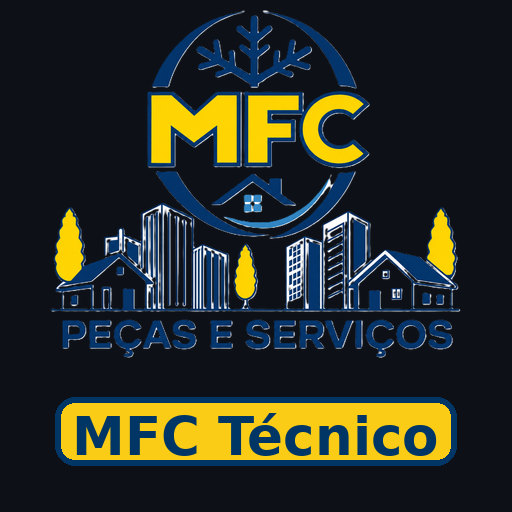
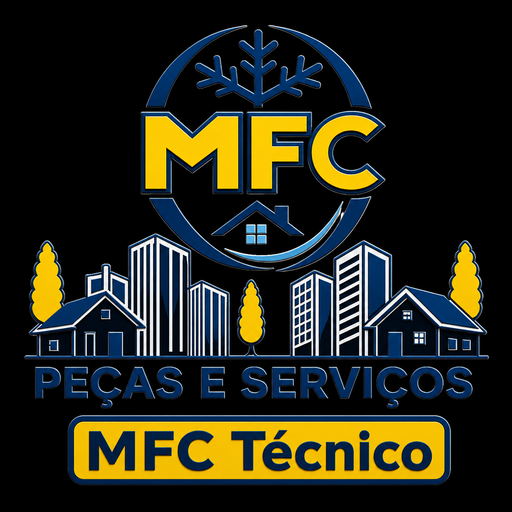
Add files via upload

diff --git a/gestor.html b/gestor.html
@@ -68,10 +68,9 @@ textarea.fi{resize:vertical;min-height:52px}
 .se{background:#14532d33;color:#86efac;border:1px solid #14532d}.de{background:#22c55e}
 .sq{background:#451a0333;color:#fbbf24;border:1px solid #451a03}.dq{background:#f59e0b}
 .sa{background:#1c191733;color:#fb923c;border:1px solid #1c1917}.da{background:#f97316}
-.srd{background:#083344;color:#67e8f9;border:1px solid #155e75}.drd{background:#06b6d4}
 .sab{background:#3b076433;color:#d8b4fe;border:1px solid #3b0764}.dab{background:#a855f7}
 .sr{background:#3b121933;color:#fca5a5;border:1px solid #3b1219}.dr{background:#ef4444}
-.sd{background:#0d1f0d33;color:#4ade80;border:1px solid #0d1f0d}.dd{background:#22c55e}
+.sd{background:#0d1f0d33;color:#4ade80;border:1px solid #0d1f0d}.dd{background:#22c55e}.srd{background:#062b3533;color:#67e8f9;border:1px solid #164e63}.drd{background:#06b6d4}
 .dt-badge{display:inline-block;margin-top:4px;font-size:.73rem;font-weight:600;color:#fff;background:linear-gradient(135deg,#1e3a5f,#0f2744);border:1px solid #2d4f7c;border-radius:6px;padding:2px 8px}
 .dt-badge.svc{background:linear-gradient(135deg,#1a1000,#2d1200);border-color:#7c3d12;color:var(--orange)}
 .paid-badge{font-size:.66rem;font-weight:700;padding:2px 7px;border-radius:10px;background:#0d2e1b;color:#4ade80;border:1px solid #22c55e44}
@@ -93,10 +92,9 @@ textarea.fi{resize:vertical;min-height:52px}
 .vte.active{background:#14532d;border-color:#22c55e}
 .vtq.active{background:#451a03;border-color:#f59e0b}
 .vta.active{background:#1c1917;border-color:#f97316}
-.vtrd.active{background:#164e63;border-color:#06b6d4}
 .vtab2.active{background:#3b0764;border-color:#a855f7}
 .vtr.active{background:#3b1219;border-color:#ef4444}
-.vtd.active{background:#0d1f0d;border-color:#22c55e}
+.vtd.active{background:#0d1f0d;border-color:#22c55e}.vtrd.active{background:#083344;border-color:#06b6d4}
 .vpanel{display:none}.vpanel.active{display:block}
 /* Accordion */
 .acc{border:1px solid var(--border);border-radius:var(--radius-sm);overflow:hidden;margin-bottom:8px}
@@ -160,45 +158,20 @@ textarea.fi{resize:vertical;min-height:52px}
 .csr-item:hover{background:var(--surface2)}
 .csr-item strong{display:block;font-size:.88rem}
 .csr-item span{font-size:.78rem;color:var(--muted)}
-.csr-item.deleted{opacity:.85;border-left:3px solid var(--red);padding-left:9px}
 /* Section label */
 .slabel{font-size:.7rem;font-weight:700;letter-spacing:.08em;text-transform:uppercase;color:var(--muted);margin-bottom:12px}
 /* Recurrent badge */
 .recurrent-badge{background:#451a0355;color:#fbbf24;border:1px solid #f59e0b55;border-radius:6px;padding:4px 10px;font-size:.75rem;font-weight:600;display:inline-flex;align-items:center;gap:4px}
-
-/* Marca MFC */
-.brand-hero{
-  position:relative;overflow:hidden;border:1px solid var(--border);border-radius:22px;
-  background:linear-gradient(135deg,#0f172a,#111827);box-shadow:var(--shadow);margin-bottom:18px;
-}
-.brand-cover{width:100%;height:190px;object-fit:cover;display:block;opacity:.82}
-.brand-content{display:flex;align-items:center;gap:18px;padding:18px 22px;background:linear-gradient(180deg,rgba(17,24,39,.94),rgba(17,24,39,1))}
-.brand-logo{width:86px;height:86px;object-fit:contain;background:#fff;border-radius:20px;padding:8px;box-shadow:0 12px 30px rgba(0,0,0,.35);flex-shrink:0}
-.brand-content h2{font-size:1.25rem;margin-bottom:4px;color:var(--text)}
-.brand-content p{color:var(--muted);font-size:.9rem;line-height:1.4}
-@media(max-width:700px){.brand-cover{height:130px}.brand-content{padding:14px;gap:12px}.brand-logo{width:68px;height:68px}.brand-content h2{font-size:1rem}.brand-content p{font-size:.78rem}}
-.phone-copy{display:inline-flex;margin-top:6px;padding:7px 10px;border-radius:8px;background:var(--surface2);border:1px solid var(--border);color:var(--accent2);font-size:.78rem;font-weight:700;cursor:pointer}
 </style>
 </head>
 <body>
 <header>
   <span style="font-size:1.3rem">❄️</span>
   <h1>Painel Gestor — Refrigeração</h1>
-  <button class="btn btn-muted btn-sm" onclick="enableGestorNotifications()">🔔 Alertas</button>
   <span id="conn">🔴 Conectando...</span>
 </header>
 
 <div class="main">
-  <div class="brand-hero">
-    <img class="brand-cover" src="mfc-capa.png" alt="MFC Peças e Serviços">
-    <div class="brand-content">
-      <img class="brand-logo" src="mfc-logo.png" alt="Logo MFC">
-      <div>
-        <h2>Painel Gestor MFC</h2>
-        <p>Controle de clientes, visitas, orçamentos e serviços de refrigeração.</p>
-      </div>
-    </div>
-  </div>
   <!-- Tabs principais -->
   <div class="tabs" id="main-tabs">
     <button class="tab active" onclick="mainTab('clientes',this)">Clientes</button>
@@ -218,6 +191,16 @@ textarea.fi{resize:vertical;min-height:52px}
       <div style="margin-bottom:10px"><span class="fl">Observação</span><textarea class="fi" id="emp-notes" placeholder="Observação rápida da visita" style="min-height:44px"></textarea></div>
       <button class="btn btn-cyan btn-sm" onclick="addCompanyVisit()">⚡ Enviar visita empresa</button>
     </div>
+    <!-- Paste -->
+    <div class="paste-card">
+      <h2>📋 Cole as informações do cliente</h2>
+      <textarea id="paste-area" placeholder="Cole aqui o texto com os dados. Funciona com rótulo: valor ou formato de tabela (duas linhas com tabulação)."></textarea>
+      <div style="display:flex;gap:8px;margin-top:8px;align-items:center">
+        <button class="btn btn-blue btn-sm" onclick="parseAndFill()">⚡ Preencher automaticamente</button>
+        <span style="font-size:.75rem;color:var(--muted)">Reconhece Nome, Contato, Endereço, Número, Bairro, Ref, Equipamento</span>
+      </div>
+    </div>
+
     <!-- Formulário -->
     <div class="card">
       <div class="slabel" style="margin-bottom:14px">➕ Novo Cliente</div>
@@ -240,7 +223,6 @@ textarea.fi{resize:vertical;min-height:52px}
             <option value="evaluated">✅ Avaliação concluída</option>
             <option value="quoted">💰 Aguardando aprovação</option>
             <option value="approved">🟠 Aprovado</option>
-            <option value="ready_delivery">📦 Pronto para entrega</option>
             <option value="absent">🚫 Cliente ausente</option>
             <option value="rejected">❌ Orçamento rejeitado</option>
           </select>
@@ -331,50 +313,10 @@ const col = collection(db,'clients');
 const leadsCol = collection(db,'leads');
 
 let all=[], leads=[], filter='all', editId=null, trashOpen=false, currentMainTab='clientes';
-let firstClientsLoad = true;
-let clientUpdateState = new Map();
-
-window.enableGestorNotifications=async()=>{
-  if(!('Notification' in window)){ toast('Seu navegador não suporta notificações.','var(--red)'); return; }
-  try{
-    const perm = await Notification.requestPermission();
-    if(perm === 'granted') toast('🔔 Alertas ativados!');
-    else toast('Permissão de alerta não liberada.','var(--yellow)');
-  }catch(e){ toast('Não foi possível ativar alertas.','var(--red)'); }
-};
-
-function layerSignature(ly){
-  return JSON.stringify({
-    techReport:ly.techReport||null,
-    absentAt:ly.absentAt||'',
-    concludedAt:ly.concludedAt||''
-  });
-}
-function clientSignature(c){ return getLayers(c).map(layerSignature).join('|'); }
-function showUpdateNotification(c){
-  const title='Atualização do técnico';
-  const body=`${c.name || 'Cliente'} recebeu uma atualização.`;
-  if('Notification' in window && Notification.permission==='granted') new Notification(title,{body,icon:'mfc-logo.png'});
-  toast(`🔔 ${body}`,'var(--accent)');
-}
 
 // ── Listeners ─────────────────────────────────
 onSnapshot(query(col, orderBy('createdAt','asc')), snap => {
-  const nc = snap.docs.map(d=>({id:d.id,...d.data()}));
-
-  if(firstClientsLoad){
-    nc.forEach(c=>clientUpdateState.set(c.id, clientSignature(c)));
-    firstClientsLoad = false;
-  } else {
-    nc.forEach(c=>{
-      const sig=clientSignature(c);
-      const prev=clientUpdateState.get(c.id);
-      if(prev && prev!==sig) showUpdateNotification(c);
-      clientUpdateState.set(c.id,sig);
-    });
-  }
-
-  all = nc;
+  all = snap.docs.map(d=>({id:d.id,...d.data()}));
   document.getElementById('conn').textContent='🟢 Conectado';
   render(); renderTrash();
 }, err=>{ document.getElementById('conn').textContent='🔴 Erro'; console.error(err); });
@@ -389,32 +331,32 @@ onSnapshot(query(leadsCol, orderBy('createdAt','desc')), snap => {
 });
 
 // ── Helpers ───────────────────────────────────
-const lbl = s=>({waiting:'Aguardando visita',evaluated:'Avaliação concluída',quoted:'Aguardando aprovação',approved:'Aprovado',ready_delivery:'Pronto para entrega',absent:'Cliente ausente',rejected:'Orçamento rejeitado',done:'Serviço Concluído'}[s]||s||'Aguardando visita');
+function normStatus(s){
+  s=String(s||'waiting').trim().toLowerCase().replace(/-/g,'_');
+  if(['ready_delivery','ready_for_delivery','pronto_entrega','pronto_para_entrega'].includes(s))return 'ready_delivery';
+  return s;
+}
+const lbl = s=>({waiting:'Aguardando visita',evaluated:'Avaliação concluída',quoted:'Aguardando aprovação',approved:'Aprovado',ready_delivery:'Pronto para entrega',absent:'Cliente ausente',rejected:'Orçamento rejeitado',done:'Serviço Concluído'}[normStatus(s)]||s||'Aguardando visita');
 const fdt = dt=>{ if(!dt)return'—'; try{return new Date(dt).toLocaleString('pt-BR',{weekday:'long',day:'2-digit',month:'long',year:'numeric',hour:'2-digit',minute:'2-digit'});}catch{return dt;}};
 const fdtShort = dt=>{ if(!dt)return'—'; try{return new Date(dt).toLocaleString('pt-BR',{day:'2-digit',month:'2-digit',year:'2-digit',hour:'2-digit',minute:'2-digit'});}catch{return dt;}};
 const maps = a=>'https://www.google.com/maps/search/?api=1&query='+encodeURIComponent(a);
-window.copyPhone = async phone => {
-  const txt = phone || '';
-  try{ await navigator.clipboard.writeText(txt); toast('📋 Número copiado!'); }
-  catch(e){ prompt('Copie o número:', txt); }
-};
 
 function toast(m, c='var(--green)'){
   const t=document.getElementById('toast');
   t.textContent=m; t.style.background=c;
   t.style.display='block';
-  setTimeout(()=>t.style.display='none', 3500);
+  setTimeout(()=>t.style.display='none', 2500);
 }
 
 function getLayers(c){
   if(c.layers&&c.layers.length)return c.layers;
   return[{status:c.status||'waiting',quote:c.quote||'',quoteObs:c.quoteObs||'',techReport:c.techReport||null,absentAt:c.absentAt||null,approval:c.approval||null,done:false,createdAt:c.createdAt||''}];
 }
-function getStatus(c){ return c.status||'waiting'; }
+function getStatus(c){ return normStatus(c.status||'waiting'); }
 function getMainDt(c){
   const layers=getLayers(c);
   const active=layers.find(l=>!l.done);
-  if(active?.deliveryDate) return{dt:active.deliveryDate,type:'delivery'};
+  if(normStatus(active?.status)==='ready_delivery') return{dt:active.deliveryDate||active.deliveryAt||active.approval?.deliveryDate||active.approval?.deliveryAt||active.approval?.serviceDate,type:'delivery'};
   if(active?.approval?.serviceDate) return{dt:active.approval.serviceDate,type:'service'};
   return{dt:c.datetime,type:'visit'};
 }
@@ -450,17 +392,11 @@ window.searchClients=val=>{
   const csr=document.getElementById('csr');
   if(!val||val.length<2){csr.style.display='none';return;}
   const q=val.toLowerCase();
-  const qDigits=val.replace(/\D/g,'');
-  const results=all.filter(c=>{
-    const name=(c.name||'').toLowerCase();
-    const phone=(c.phone||'');
-    const phoneDigits=phone.replace(/\D/g,'');
-    return name.includes(q) || phone.includes(val) || (qDigits && phoneDigits.includes(qDigits));
-  }).slice(0,10);
+  const results=all.filter(c=>!c.deleted&&((c.name||'').toLowerCase().includes(q)||(c.phone||'').includes(q))).slice(0,6);
   if(!results.length){csr.style.display='none';return;}
   csr.style.display='block';
-  csr.innerHTML=results.map(c=>`<div class="csr-item ${c.deleted?'deleted':''}" onclick="fillFromClient('${c.id}')">
-    <strong>${c.name||'—'} ${c.deleted?' <span style="color:var(--red);font-size:.72rem">🗑 Lixeira</span>':''}</strong>
+  csr.innerHTML=results.map(c=>`<div class="csr-item" onclick="fillFromClient('${c.id}')">
+    <strong>${c.name||'—'}</strong>
     <span>${c.phone||''} ${c.address?'· '+c.address:''}</span>
   </div>`).join('');
 };
@@ -623,8 +559,6 @@ window.saveLayer=async(id,li)=>{
   const val=document.getElementById('ly-val-'+id+'-'+li)?.value?.trim();
   const maq=document.getElementById('ly-maq-'+id+'-'+li)?.checked||false;
   const paid=document.getElementById('ly-paid-'+id+'-'+li)?.checked||false;
-  const deliveryDate=document.getElementById('ly-delivery-'+id+'-'+li)?.value||'';
-  const deliveryObs=document.getElementById('ly-delivery-obs-'+id+'-'+li)?.value?.trim()||'';
   // Entrada
   const entryChecked=document.getElementById('ly-entry-'+id+'-'+li)?.checked||false;
   const entryPct=parseFloat(document.getElementById('ly-epct-'+id+'-'+li)?.value)||40;
@@ -633,8 +567,6 @@ window.saveLayer=async(id,li)=>{
   if(qt!==undefined)layers[li].quote=qt;
   if(obs!==undefined)layers[li].quoteObs=obs;
   if(st)layers[li].status=st;
-  layers[li].deliveryDate=deliveryDate;
-  layers[li].deliveryObs=deliveryObs;
   if(pay||svc||val)layers[li].approval={payment:pay||'',serviceDate:svc||'',value:val||'',needsMachine:maq,paid};
   else if(layers[li].approval){layers[li].approval.needsMachine=maq;layers[li].approval.paid=paid;}
   layers[li].entry={enabled:entryChecked,percent:entryPct,payment:entryPay,received:entryReceived};
@@ -761,6 +693,7 @@ window.calcEntry=(id,li)=>{
 };
 
 function statusOpts(sel){
+  sel=normStatus(sel);
   return['waiting','evaluated','quoted','approved','ready_delivery','absent','rejected','done'].map(s=>{
     const labels={waiting:'🕐 Aguardando visita',evaluated:'✅ Avaliação concluída',quoted:'💰 Aguardando aprovação',approved:'🟠 Aprovado',ready_delivery:'📦 Pronto para entrega',absent:'🚫 Cliente ausente',rejected:'❌ Orçamento rejeitado',done:'✅ Serviço Concluído'};
     return`<option value="${s}"${sel===s?' selected':''}>${labels[s]}</option>`;
@@ -803,7 +736,7 @@ function render(){
     const done=layers.filter(l=>l.done);
 
     let aN=0;
-    const tabsHtml=layers.map((ly,li)=>{if(ly.done)return'';aN++;const isPri=c.priorityIndex===li;const cls={waiting:'vtw',evaluated:'vte',quoted:'vtq',approved:'vta',ready_delivery:'vtrd',absent:'vtab2',rejected:'vtr',done:'vtd'}[ly.status]||'vtw';return`<button id="vt-${c.id}-${li}" data-vt="${c.id}" class="vtab ${cls}${isPri?' pri':''}" onclick="showVTab('${c.id}',${li})">${isPri?'⭐ ':''}Visita ${aN}${isPri?' ★':''}</button>`;}).join('');
+    const tabsHtml=layers.map((ly,li)=>{if(ly.done)return'';aN++;const isPri=c.priorityIndex===li;const cls={waiting:'vtw',evaluated:'vte',quoted:'vtq',approved:'vta',ready_delivery:'vtrd',absent:'vtab2',rejected:'vtr',done:'vtd'}[normStatus(ly.status)]||'vtw';return`<button id="vt-${c.id}-${li}" data-vt="${c.id}" class="vtab ${cls}${isPri?' pri':''}" onclick="showVTab('${c.id}',${li})">${isPri?'⭐ ':''}Visita ${aN}${isPri?' ★':''}</button>`;}).join('');
     const doneTab=done.length?`<button id="vt-${c.id}-done" data-vt="${c.id}" class="vtab vtd" onclick="showDoneTab('${c.id}')">✅ Concluídos (${done.length})</button>`:'';
 
     aN=0;
@@ -814,7 +747,6 @@ function render(){
       const techAcc=ly.techReport?`<div class="acc"><div class="acc-hdr" id="ath${c.id}${li}" onclick="toggleAcc('ath${c.id}${li}','atb${c.id}${li}')"><span style="font-size:.8rem;font-weight:700;color:var(--accent2)">🔧 Relatório do Técnico</span><span class="acc-arr">▼</span></div><div class="acc-body" id="atb${c.id}${li}"><p style="font-size:.85rem;margin-bottom:4px"><strong>Equipamento:</strong> ${ly.techReport.model||'—'}</p><p style="font-size:.85rem;margin-bottom:8px"><strong>Serviços:</strong> ${ly.techReport.problem||'—'}</p>${ly.techReport.photos?.length?`<div style="display:flex;gap:8px;flex-wrap:wrap">${ly.techReport.photos.map(p=>`<img src="${p}" onclick="openLb('${p}')" style="width:68px;height:68px;object-fit:cover;border-radius:6px;cursor:pointer">`).join('')}</div>`:''}</div></div>`:'';
       const absentAcc=ly.absentAt?`<div class="acc"><div class="acc-hdr" id="aah${c.id}${li}" onclick="toggleAcc('aah${c.id}${li}','aab${c.id}${li}')"><span style="font-size:.8rem;font-weight:700;color:var(--purple)">🚫 Cliente Ausente</span><span class="acc-arr">▼</span></div><div class="acc-body" id="aab${c.id}${li}"><p style="font-size:.85rem">Em: <strong>${fdt(ly.absentAt)}</strong></p></div></div>`:'';
       const apprInfo=ly.approval?.payment?`<div style="font-size:.82rem;color:var(--orange);margin-bottom:8px;padding:6px 10px;background:#1a100055;border:1px solid #f9731622;border-radius:6px">✔ ${ly.approval.payment}${ly.approval.value?' — <strong>'+ly.approval.value+'</strong>':''}${ly.approval.needsMachine?' 💳':''}${ly.approval.paid?' <span class="paid-badge">💰 Pago</span>':''} — ${fdt(ly.approval.serviceDate)}</div>`:'';
-      const deliveryInfo=ly.status==='ready_delivery'?`<div style="font-size:.82rem;color:#67e8f9;margin-bottom:8px;padding:6px 10px;background:#08334455;border:1px solid #06b6d422;border-radius:6px">📦 Pronto para entrega: <strong>${fdt(ly.deliveryDate)}</strong>${ly.deliveryObs?' — '+ly.deliveryObs:''}</div>`:'';
       const entryBox=entry.enabled?`<div class="entry-box"><h5>💵 Entrada / Sinal</h5><div class="entry-vals"><div class="ev"><label>Total</label><span id="ev-total-${c.id}-${li}">${ly.approval?.value||'R$ 0,00'}</span></div><div class="ev"><label>Entrada (${entry.percent||40}%)</label><span id="ev-entry-${c.id}-${li}">R$ 0,00</span></div><div class="ev"><label>Restante</label><span id="ev-remain-${c.id}-${li}">R$ 0,00</span></div></div><div style="margin-top:8px;font-size:.82rem;color:${entry.received?'var(--green)':'var(--muted)'}">Pagamento: ${entry.payment||'—'} ${entry.received?'✅ Entrada recebida':'⏳ Aguardando'}</div></div>`:'';
       const budgetImg=ly.budgetImage?.data||'';
       const docInfo=budgetImg?`<div class="doc-box"><p style="font-size:.78rem;color:var(--accent2);text-transform:uppercase;margin-bottom:4px">🖼️ Imagem do orçamento</p><img class="budget-preview" src="${budgetImg}" onclick="openLb('${budgetImg}')"><div class="acts"><button class="btn btn-muted btn-sm" onclick="openLb('${budgetImg}')">🔍 Ver / Zoom</button><button class="btn btn-muted btn-sm" onclick="removeBudgetImage('${c.id}',${li})">Remover</button></div></div>`:'';
@@ -835,16 +767,12 @@ function render(){
           <!-- Aprovação -->
           <div class="acc" style="margin-bottom:8px"><div class="acc-hdr" id="aph${c.id}${li}" onclick="toggleAcc('aph${c.id}${li}','apb${c.id}${li}')"><span style="font-size:.8rem;font-weight:700;color:var(--orange)">✅ Aprovação e Pagamento</span><span class="acc-arr">▼</span></div>
             <div class="acc-body" id="apb${c.id}${li}">
-              ${deliveryInfo}${apprInfo}
+              ${apprInfo}
               <div class="fgrid" style="margin-bottom:8px">
                 <div><span class="fl">Forma de pagamento</span><input type="text" class="fi" id="ly-pay-${c.id}-${li}" placeholder="Pix, Cartão..." value="${ly.approval?.payment||''}"></div>
                 <div><span class="fl">Valor do orçamento</span><input type="text" class="fi" id="ly-val-${c.id}-${li}" placeholder="R$ 0,00" value="${ly.approval?.value||''}" oninput="calcEntry('${c.id}',${li})"></div>
               </div>
               <div style="margin-bottom:10px"><span class="fl">Data e hora do serviço</span><input type="datetime-local" class="fi" id="ly-svc-${c.id}-${li}" value="${ly.approval?.serviceDate||''}"></div>
-              <div class="fgrid" style="margin-bottom:8px">
-                <div><span class="fl">📦 Data da entrega</span><input type="datetime-local" class="fi" id="ly-delivery-${c.id}-${li}" value="${ly.deliveryDate||''}"></div>
-                <div><span class="fl">Obs. da entrega</span><input type="text" class="fi" id="ly-delivery-obs-${c.id}-${li}" placeholder="Ex: entregar pela manhã" value="${ly.deliveryObs||''}"></div>
-              </div>
               <label style="display:flex;align-items:center;gap:10px;cursor:pointer;background:var(--surface2);border:1px solid var(--border);border-radius:var(--radius-sm);padding:9px 12px;margin-bottom:8px">
                 <input type="checkbox" id="ly-maq-${c.id}-${li}" ${ly.approval?.needsMachine?'checked':''} style="width:17px;height:17px;accent-color:var(--orange);cursor:pointer">
                 <span style="font-size:.87rem">💳 Precisa de maquininha</span>
@@ -892,7 +820,7 @@ function render(){
         <div class="cmeta">
           <strong>${c.name||'—'} ${c.phone?`<span style="font-size:.78rem;color:var(--muted);font-weight:400">· ${c.phone}</span>`:''} ${machine?'<span title="Precisa de maquininha">💳</span>':''}</strong>
           <div class="csub">${c.address||''}</div>
-          <span class="dt-badge${mainDt.type==='service'?' svc':''}">${mainDt.type==='delivery'?'📦':(mainDt.type==='service'?'🔧':'📅')} ${fdt(mainDt.dt)}</span>
+          <span class="dt-badge${mainDt.type==='service'||mainDt.type==='delivery'?' svc':''}">${mainDt.type==='delivery'?'📦':mainDt.type==='service'?'🔧':'📅'} ${fdt(mainDt.dt)}</span>
         </div>
         <div style="display:flex;flex-direction:column;align-items:flex-end;gap:4px">
           <span class="sbadge ${badgeCls[status]||'sw'}">${lbl(status)}</span>
@@ -901,7 +829,7 @@ function render(){
       </div>
       <div class="cc-body" id="body-${c.id}">
         <div class="igrid">
-          <div class="iblk"><label>Telefone</label><p style="user-select:text">${c.phone||'—'}</p>${c.phone?`<button class="phone-copy" onclick="event.stopPropagation();copyPhone('${c.phone}')">📋 Copiar número</button>`:''}</div>
+          <div class="iblk"><label>Telefone</label><p>${c.phone||'—'}</p></div>
           <div class="iblk"><label>Equipamento</label><p>${c.equip||'—'}</p></div>
           ${c.notes?`<div class="iblk"><label>Obs</label><p>${c.notes}</p></div>`:''}
           ${c.address?`<div class="iblk"><label>Endereço</label><p>${c.address}${c.ref?' — '+c.ref:''} <a href="${maps(c.address+(c.ref?' '+c.ref:''))}" target="_blank" style="color:var(--accent2);font-size:.75rem">📍</a></p></div>`:''}

diff --git a/index.html b/index.html
@@ -32,7 +32,7 @@ header h1{font-size:1rem;font-weight:700;flex:1}
 .card.s-waiting{border-left-color:#3b82f6}.card.s-evaluated{border-left-color:#22c55e}
 .card.s-quoted{border-left-color:#eab308}.card.s-approved{border-left-color:#f97316}
 .card.s-absent{border-left-color:#a855f7}.card.s-rejected{border-left-color:#ef4444}
-.card.s-done{border-left-color:#22c55e;opacity:.6}
+.card.s-done{border-left-color:#22c55e;opacity:.6}.card.s-ready_delivery{border-left-color:#06b6d4}
 .card-inner{padding:14px 16px;display:flex;align-items:center;gap:12px}
 .card-icon{font-size:1.5rem}
 .card-info{flex:1;min-width:0}
@@ -44,7 +44,7 @@ header h1{font-size:1rem;font-weight:700;flex:1}
 .b-waiting{background:#0d2346;color:#60a5fa}.b-evaluated{background:#0d2e1b;color:#86efac}
 .b-quoted{background:#2d1e00;color:#fcd34d}.b-approved{background:#2d1200;color:#fb923c}
 .b-absent{background:#2d1a4a;color:#d8b4fe}.b-rejected{background:#3b1219;color:#fca5a5}
-.b-done{background:#0d2e1b;color:#4ade80}
+.b-done{background:#0d2e1b;color:#4ade80}.b-ready_delivery{background:#062b35;color:#67e8f9}
 .paid-badge{font-size:.68rem;font-weight:700;padding:3px 8px;border-radius:20px;background:#0d2e1b;color:#4ade80;border:1px solid #22c55e44;margin-top:4px;display:inline-block}
 .empty{text-align:center;padding:60px 20px;color:var(--muted)}
 .empty .icon{font-size:3rem;margin-bottom:12px}
@@ -72,7 +72,7 @@ header h1{font-size:1rem;font-weight:700;flex:1}
 .vt-approved.active{background:#1c1917;border-color:#f97316}
 .vt-absent.active{background:#3b0764;border-color:#a855f7}
 .vt-rejected.active{background:#3b1219;border-color:#ef4444}
-.vt-done.active{background:#0d1f0d;border-color:#22c55e}
+.vt-done.active{background:#0d1f0d;border-color:#22c55e}.vt-ready_delivery.active{background:#083344;border-color:#06b6d4}
 .v-panel{display:none}.v-panel.active{display:flex;flex-direction:column;gap:10px}
 /* Accordion */
 .acc{border:1px solid var(--border);border-radius:10px;overflow:hidden}
@@ -186,8 +186,13 @@ async function requestNotif(){if('Notification'in window&&Notification.permissio
 requestNotif();
 function sendNotif(t,b){if('Notification'in window&&Notification.permission==='granted')new Notification(t,{body:b,icon:'https://cdn.jsdelivr.net/gh/twitter/twemoji@14/assets/72x72/2744.png'})}
 
-function lbl(s){return{waiting:'Aguardando visita',evaluated:'Avaliação concluída',quoted:'Orçamento enviado',approved:'Aprovado',absent:'Cliente ausente',rejected:'Orçamento rejeitado',done:'Concluído'}[s]||s}
-function icon(s){return{waiting:'🕐',evaluated:'✅',quoted:'💰',approved:'🟠',absent:'🚫',rejected:'❌',done:'✔'}[s]||'❓'}
+function normStatus(s){
+  s=String(s||'waiting').trim().toLowerCase().replace(/-/g,'_');
+  if(['ready_delivery','ready_for_delivery','pronto_entrega','pronto_para_entrega'].includes(s))return 'ready_delivery';
+  return s;
+}
+function lbl(s){s=normStatus(s);return{waiting:'Aguardando visita',evaluated:'Avaliação concluída',quoted:'Orçamento enviado',approved:'Aprovado',ready_delivery:'Pronto para entrega',absent:'Cliente ausente',rejected:'Orçamento rejeitado',done:'Concluído'}[s]||s}
+function icon(s){s=normStatus(s);return{waiting:'🕐',evaluated:'✅',quoted:'💰',approved:'🟠',ready_delivery:'📦',absent:'🚫',rejected:'❌',done:'✔'}[s]||'📋'}
 function fdt(dt){if(!dt)return'—';try{return new Date(dt).toLocaleString('pt-BR',{weekday:'long',day:'2-digit',month:'long',year:'numeric',hour:'2-digit',minute:'2-digit'});}catch{return dt}}
 function maps(a){return'https://www.google.com/maps/search/?api=1&query='+encodeURIComponent(a)}
 function moneyNum(v){return parseFloat(String(v||'').replace(/[R$\s.]/g,'').replace(',','.'))||0}
@@ -199,6 +204,7 @@ function getLayers(c){
 function getMainDt(c){
   const layers=getLayers(c);
   const active=layers.find(l=>!l.done);
+  if(normStatus(active?.status)==='ready_delivery')return{dt:active.deliveryDate||active.deliveryAt||active.approval?.deliveryDate||active.approval?.deliveryAt||active.approval?.serviceDate,type:'delivery'};
   if(active?.approval?.serviceDate)return{dt:active.approval.serviceDate,type:'service'};
   return{dt:c.datetime,type:'visit'};
 }
@@ -223,7 +229,7 @@ onSnapshot(q,snap=>{
 
 function updateDetailBadge(c){
   const badge=document.getElementById('d-badge');
-  if(badge){badge.textContent=lbl(c.status);badge.className='badge b-'+c.status;}
+  if(badge){const st=normStatus(c.status);badge.textContent=lbl(st);badge.className='badge b-'+st;}
 }
 
 window.renderList=()=>{
@@ -240,16 +246,17 @@ window.renderList=()=>{
   if(!clients.length){wrap.innerHTML='<div class="empty"><div class="icon">📋</div><p>Sem clientes.</p></div>';return}
   wrap.innerHTML=clients.map(c=>{
     const mainDt=getMainDt(c);
-    return`<div class="card s-${c.status}" onclick="openDetail('${c.id}')">
+    const st=normStatus(c.status);
+    return`<div class="card s-${st}" onclick="openDetail('${c.id}')">
       <div class="card-inner">
-        <div class="card-icon">${icon(c.status)}</div>
+        <div class="card-icon">${icon(st)}</div>
         <div class="card-info">
           <div class="card-name">${c.name}${getLayers(c).some(l=>l.approval?.needsMachine)?' <span title="Precisa de maquininha">💳</span>':''}</div>
           <div class="card-phone">${c.address||'—'}</div>
-          <div class="card-dt${mainDt.type==='service'?' service':''}">${mainDt.type==='service'?'🔧':'📅'} ${fdt(mainDt.dt)}</div>
+          <div class="card-dt${mainDt.type==='service'||mainDt.type==='delivery'?' service':''}">${mainDt.type==='delivery'?'📦':mainDt.type==='service'?'🔧':'📅'} ${fdt(mainDt.dt)}</div>
         </div>
         <div style="display:flex;flex-direction:column;align-items:flex-end;gap:4px">
-          <span class="badge b-${c.status}">${lbl(c.status)}</span>
+          <span class="badge b-${st}">${lbl(st)}</span>
           ${getLayers(c).some(l=>l.approval?.paid)?'<span class="paid-badge">💰 Pago</span>':''}
         </div>
       </div>
@@ -314,7 +321,7 @@ function renderDetailFull(c){
   const tabs=layers.map((ly,li)=>{
     if(ly.done)return'';
     activeNum++;
-    return`<button data-vtab="${c.id}" id="vt-${c.id}-${li}" class="v-tab vt-${ly.status}${li===currentLayerIdx?' active':''}" onclick="switchTab('${c.id}',${li})">${icon(ly.status)} Visita ${activeNum}</button>`;
+    return`<button data-vtab="${c.id}" id="vt-${c.id}-${li}" class="v-tab vt-${normStatus(ly.status)}${li===currentLayerIdx?' active':''}" onclick="switchTab('${c.id}',${li})">${icon(ly.status)} Visita ${activeNum}</button>`;
   }).join('');
   const doneTab=doneLayers.length?`<button data-vtab="${c.id}" id="vt-${c.id}-done" class="v-tab vt-done" onclick="switchDoneTab('${c.id}')">✅ Concluídos (${doneLayers.length})</button>`:'';
   const addBtn=`<button class="add-visit-btn" onclick="addVisit('${c.id}')">➕</button>`;
@@ -329,7 +336,7 @@ function renderDetailFull(c){
     const isActive=li===currentLayerIdx;
     let panel='';
 
-    if(ly.status==='waiting'){
+    if(normStatus(ly.status)==='waiting'){
       panel=`
         <div class="acc">
           <div class="acc-hdr open" id="ah-f-${li}" onclick="toggleAcc('ah-f-${li}','ab-f-${li}')">
@@ -373,8 +380,8 @@ function renderDetailFull(c){
       const docBox=ly.budgetImage?.data?`<div class="doc-box"><p style="color:var(--accent);font-size:.78rem;text-transform:uppercase;margin-bottom:6px">🖼️ Imagem do orçamento</p><img class="budget-preview" src="${ly.budgetImage.data}" onclick="openLb('${ly.budgetImage.data}')"><button class="done-btn" style="margin-top:10px;background:#1e3a5f" onclick="openLb('${ly.budgetImage.data}')">🔍 Ver orçamento com zoom</button></div>`:'';
       const entry=ly.entry||{}; const total=moneyNum(ly.approval?.value); const ent=total*((entry.percent||40)/100); const rem=total-ent;
       const entryBox=entry.enabled?`<div class="entry-box"><h3 style="color:var(--green);font-size:.78rem;margin-bottom:6px">💵 Entrada / Sinal</h3><div class="entry-grid"><div><label>Total</label><span>${ly.approval?.value||fmtMoney(total)}</span></div><div><label>Entrada (${entry.percent||40}%)</label><span>${fmtMoney(ent)}</span></div><div><label>Saldo restante</label><span>${fmtMoney(rem)}</span></div><div><label>Status</label><span>${entry.received?'✅ Recebida':'⏳ Pendente'}</span></div></div><p style="font-size:.8rem;color:var(--muted);margin-top:8px">Forma: ${entry.payment||'—'}</p></div>`:'';
-      const waiting=!ly.quote&&ly.status==='evaluated'?`<div class="waiting-msg">⏳ Aguardando orçamento...</div>`:'';
-      const waitingAppr=ly.quote&&ly.status==='quoted'?`<div class="waiting-msg">⏳ Aguardando aprovação...</div>`:'';
+      const waiting=!ly.quote&&normStatus(ly.status)==='evaluated'?`<div class="waiting-msg">⏳ Aguardando orçamento...</div>`:'';
+      const waitingAppr=ly.quote&&normStatus(ly.status)==='quoted'?`<div class="waiting-msg">⏳ Aguardando aprovação...</div>`:'';
 
       const apprBox=ly.approval?.payment?`
         <div style="background:#1a1000;border:1px solid #f9731644;border-radius:var(--radius);padding:14px">